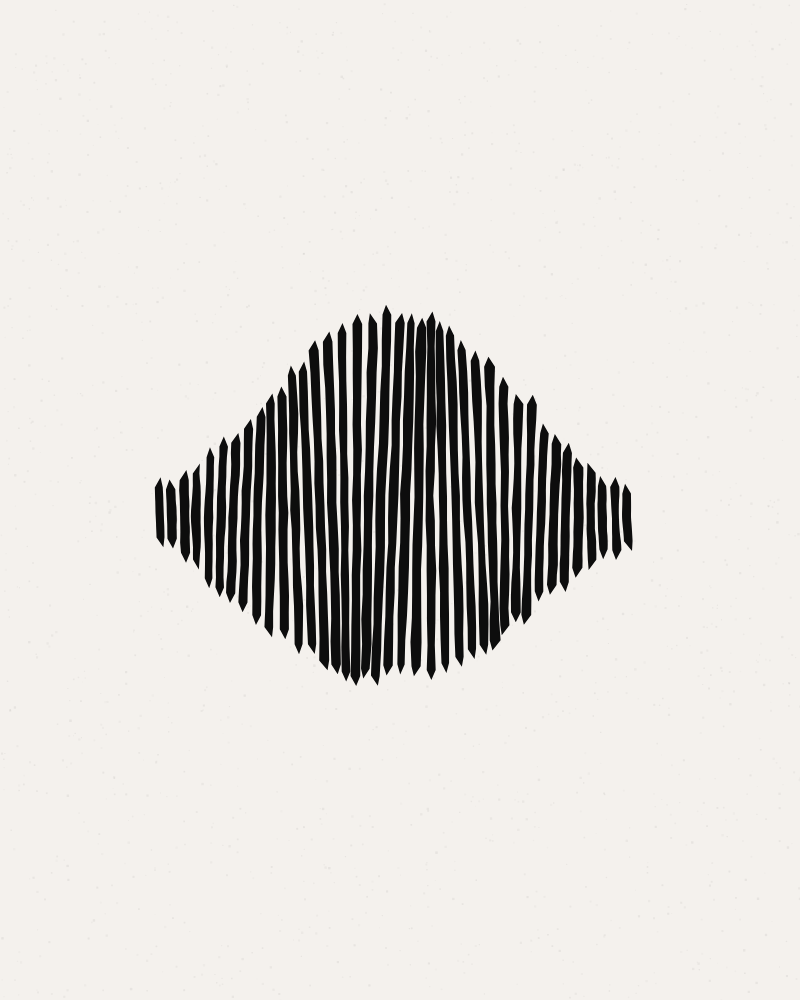
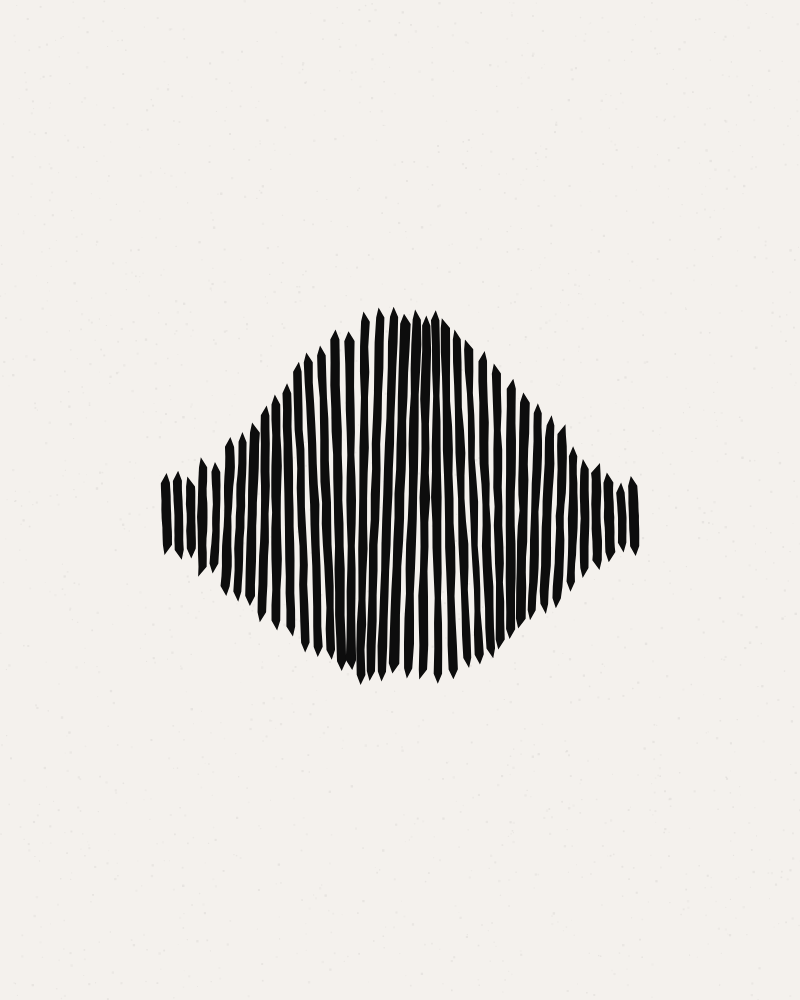
artwork: refine AG06: Amplitude Erosion

Changed region(s): [[0.1875, 0.31, 0.8125, 0.682]]

diff --git a/projects/2026-03-15-amplitude-erosion/index.html b/projects/2026-03-15-amplitude-erosion/index.html
@@ -18,48 +18,24 @@
     <script src="https://cdnjs.cloudflare.com/ajax/libs/p5.js/1.9.0/p5.min.js"></script>
 </head>
 <body>
-<!-- AXIOM-NAV-START --><style>
-html,body{margin:0;padding:0;width:100%;height:100%;background:#000!important;overflow:hidden;display:flex!important;justify-content:center;align-items:center}
-canvas{display:block;outline:1px solid #444444;border-radius:4px}
-#axiom-pill{position:fixed;top:16px;left:50%;transform:translateX(-50%);z-index:9999;background:rgba(0,0,0,0.88);backdrop-filter:blur(12px);-webkit-backdrop-filter:blur(12px);border-radius:24px;padding:7px 14px;cursor:pointer;max-width:340px;transition:all .3s ease;font-family:-apple-system,BlinkMacSystemFont,'Segoe UI',sans-serif;user-select:none}
+<style>
+#axiom-pill{position:fixed;top:16px;left:16px;z-index:9999;background:rgba(0,0,0,0.88);backdrop-filter:blur(12px);-webkit-backdrop-filter:blur(12px);border-radius:24px;padding:7px 14px;cursor:pointer;max-width:340px;transition:all .3s ease;font-family:-apple-system,BlinkMacSystemFont,'Segoe UI',sans-serif;user-select:none}
 #axiom-pill.expanded{border-radius:14px;max-width:420px;padding:14px 18px}
 .ap-hdr{display:flex;align-items:center;gap:6px}
 .ap-id{font-size:11px;color:#888;font-family:monospace;letter-spacing:.05em;flex-shrink:0}
 .ap-ttl{font-size:12px;color:#ddd;white-space:nowrap;overflow:hidden;text-overflow:ellipsis}
+.ap-x{background:none;border:none;color:#555;font-size:18px;cursor:pointer;padding:0 2px;margin-left:auto;line-height:1;flex-shrink:0}.ap-x:hover{color:#fff}
 .ap-body{display:none;margin-top:10px;padding-top:10px;border-top:1px solid rgba(255,255,255,.1);max-height:50vh;overflow-y:auto}
 #axiom-pill.expanded .ap-body{display:block}
 .ap-body p{font-size:11.5px;color:#999;line-height:1.55;margin:0}
 .ap-body::-webkit-scrollbar{width:4px}.ap-body::-webkit-scrollbar-thumb{background:#333;border-radius:2px}
-#axiom-back{position:fixed;top:16px;left:16px;z-index:9999;width:36px;height:36px;border-radius:50%;background:rgba(0,0,0,0.88);backdrop-filter:blur(12px);-webkit-backdrop-filter:blur(12px);display:flex;align-items:center;justify-content:center;color:#555;cursor:pointer;font-family:-apple-system,BlinkMacSystemFont,'Segoe UI',sans-serif;transition:color .2s;border:none;line-height:1}
-#axiom-back:hover{color:#fff}
-#axiom-back svg{width:18px;height:18px;fill:none;stroke:currentColor;stroke-width:2;stroke-linecap:round;stroke-linejoin:round}
 </style>
-<div id="axiom-back" onclick="window.location.href='../../'"><svg viewBox="0 0 24 24"><path d="M19 12H5M12 19l-7-7 7-7"/></svg></div>
-<div id="axiom-pill" onclick="this.classList.toggle('expanded')">
-<div class="ap-hdr"><span class="ap-id">AG06</span> <span class="ap-ttl">Amplitude Erosion</span></div>
+<div id="axiom-pill" onclick="if(!event.target.classList.contains('ap-x'))this.classList.toggle('expanded')">
+<div class="ap-hdr"><span class="ap-id">AG06</span> <span class="ap-ttl">Amplitude Erosion</span><button class="ap-x" onclick="event.stopPropagation();window.location.href='../../';">&times;</button></div>
 <div class="ap-body"><p>A soundwave-like form undergoes gradual material breakdown — its sharp, rhythmic vertical bars dissolve into scattered particle debris, then re-cohere through magnetic attraction. The piece explores the transition between digital precision (clean waveform) and analog decay (noise, grain, fragmentation), mirroring the moodboard's stark black-on-white visual language and its implied oscillation between solid and void.</p></div>
 </div>
-<script>
-(function(){
-  var AR=4/5,PAD=48;
-  function constrain(){
-    var c=document.querySelector('canvas');
-    if(!c)return false;
-    var h=window.innerHeight-PAD*2,w=Math.floor(h*AR);
-    if(w>window.innerWidth){w=window.innerWidth;h=Math.floor(w/AR);}
-    if(typeof resizeCanvas==='function')resizeCanvas(w,h);
-    c.style.transform='none';
-    c.style.boxShadow='none';
-    return true;
-  }
-  var poll=setInterval(function(){if(constrain()){
-    clearInterval(poll);
-    window.windowResized=function(){constrain();};
-  }},100);
-})();
-</script><!-- AXIOM-NAV-END -->
 
-<script>
+    <script>
         // Palette
         const PALETTE = {
             bg: '#f4f1ed',
@@ -117,7 +93,8 @@ canvas{display:block;outline:1px solid #444444;border-radius:4px}
             attractors = [];
             let numBlades = floor(map(width, 300, 1920, 30, 60, true));
             let spacing = min((width * 0.6) / numBlades, 25);
-            let startX = width / 2 - (numBlades * spacing) / 2;
+            // Center the composition horizontally based on the span of the blades
+            let startX = width / 2 - ((numBlades - 1) * spacing) / 2;
 
             for (let i = 0; i < numBlades; i++) {
                 let envelope = sin(map(i, 0, numBlades - 1, 0, PI));
@@ -127,8 +104,8 @@ canvas{display:block;outline:1px solid #444444;border-radius:4px}
                 let y = height / 2;
                 
                 // Erosion delay based on distance from edges (edges break first)
-                let distFromCenter = abs(i - numBlades / 2);
-                let delay = map(distFromCenter, numBlades / 2, 0, 0, 28000); 
+                let distFromCenter = abs(i - (numBlades - 1) / 2);
+                let delay = map(distFromCenter, (numBlades - 1) / 2, 0, 0, 28000); 
                 blades.push(new Blade(x, y, w, h, i, delay));
             }
         }
